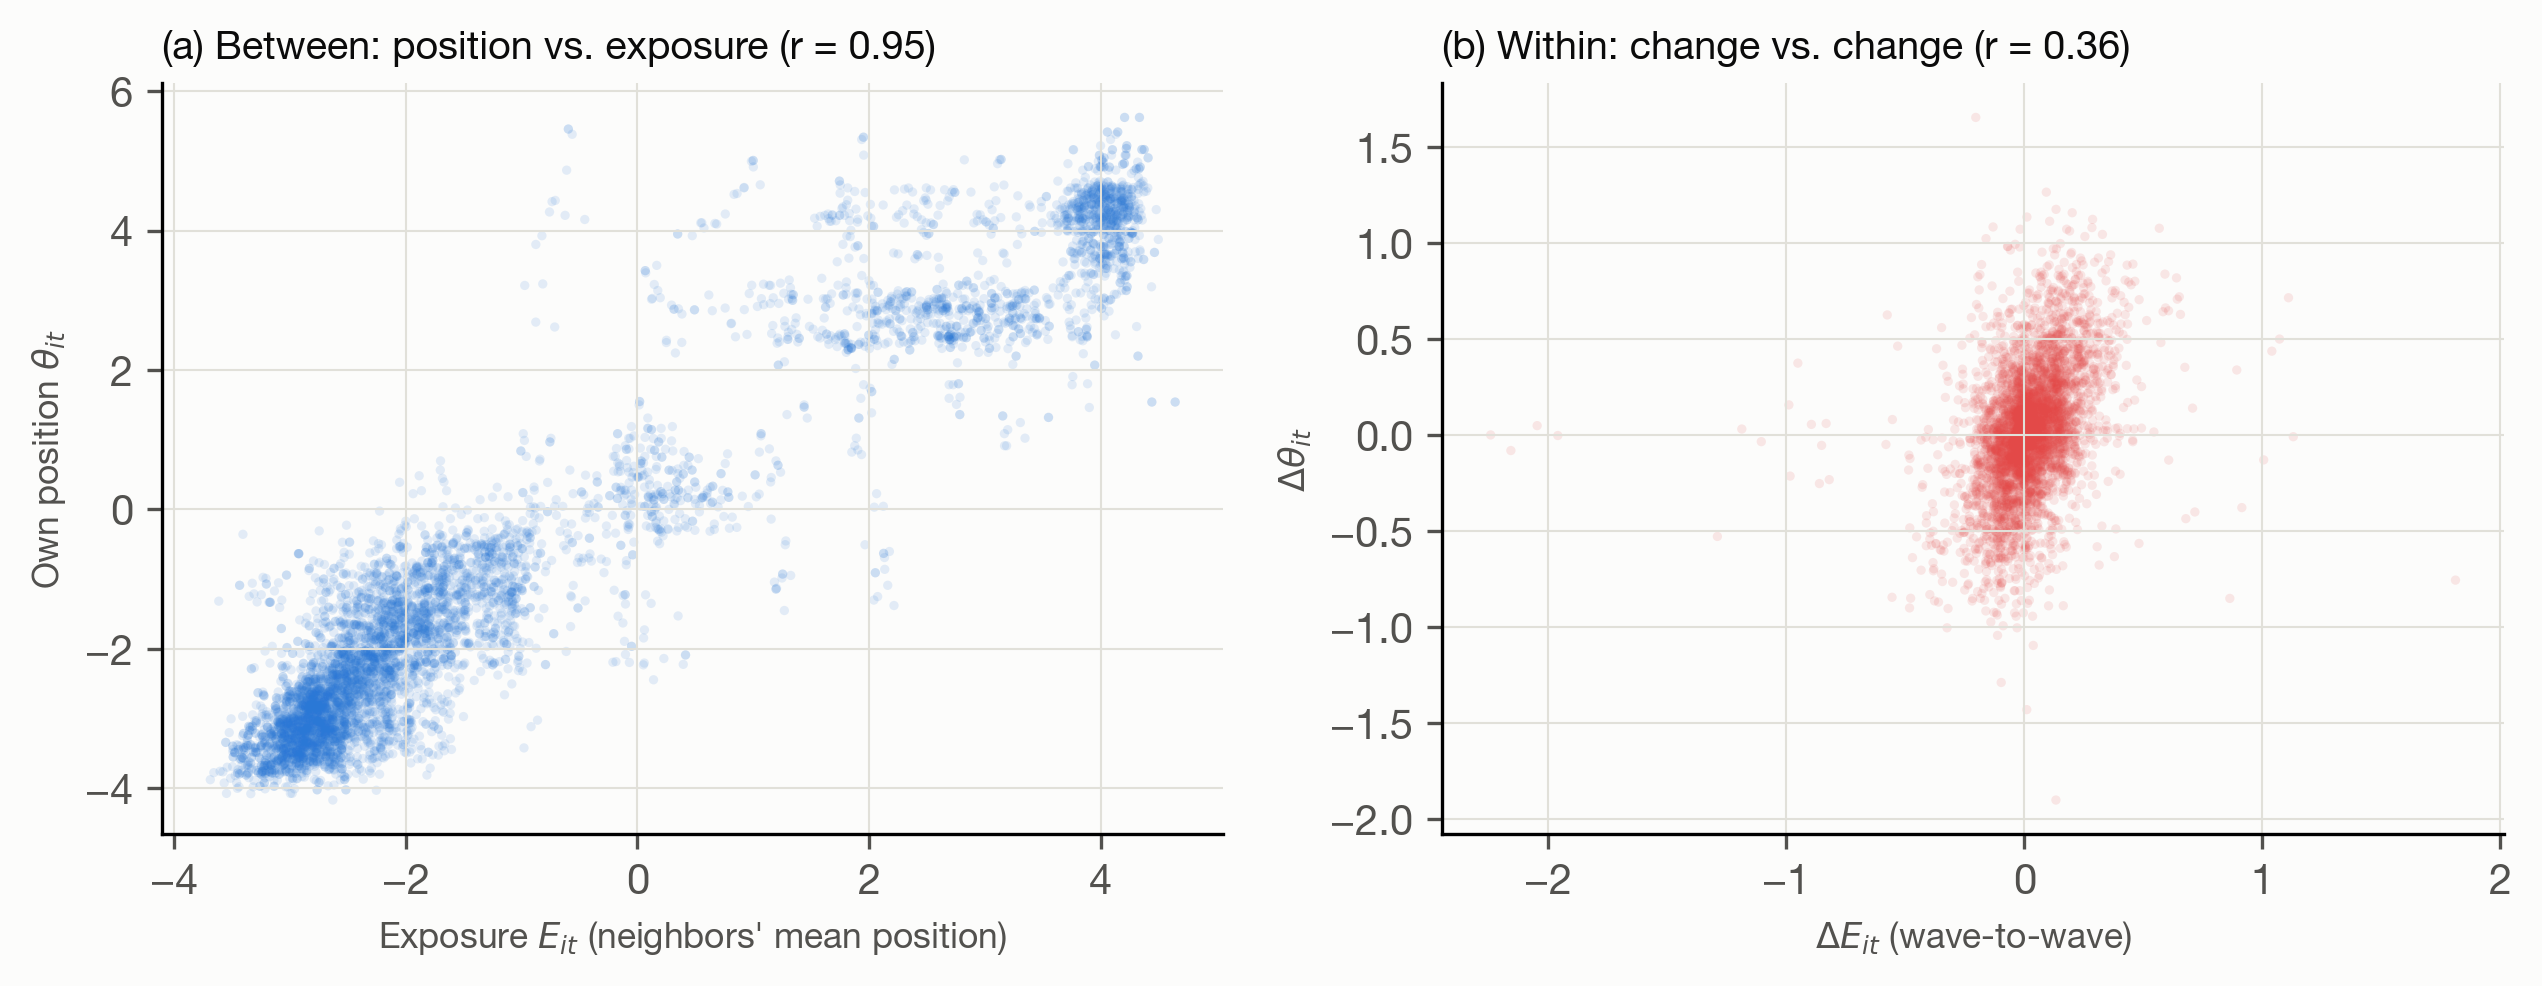
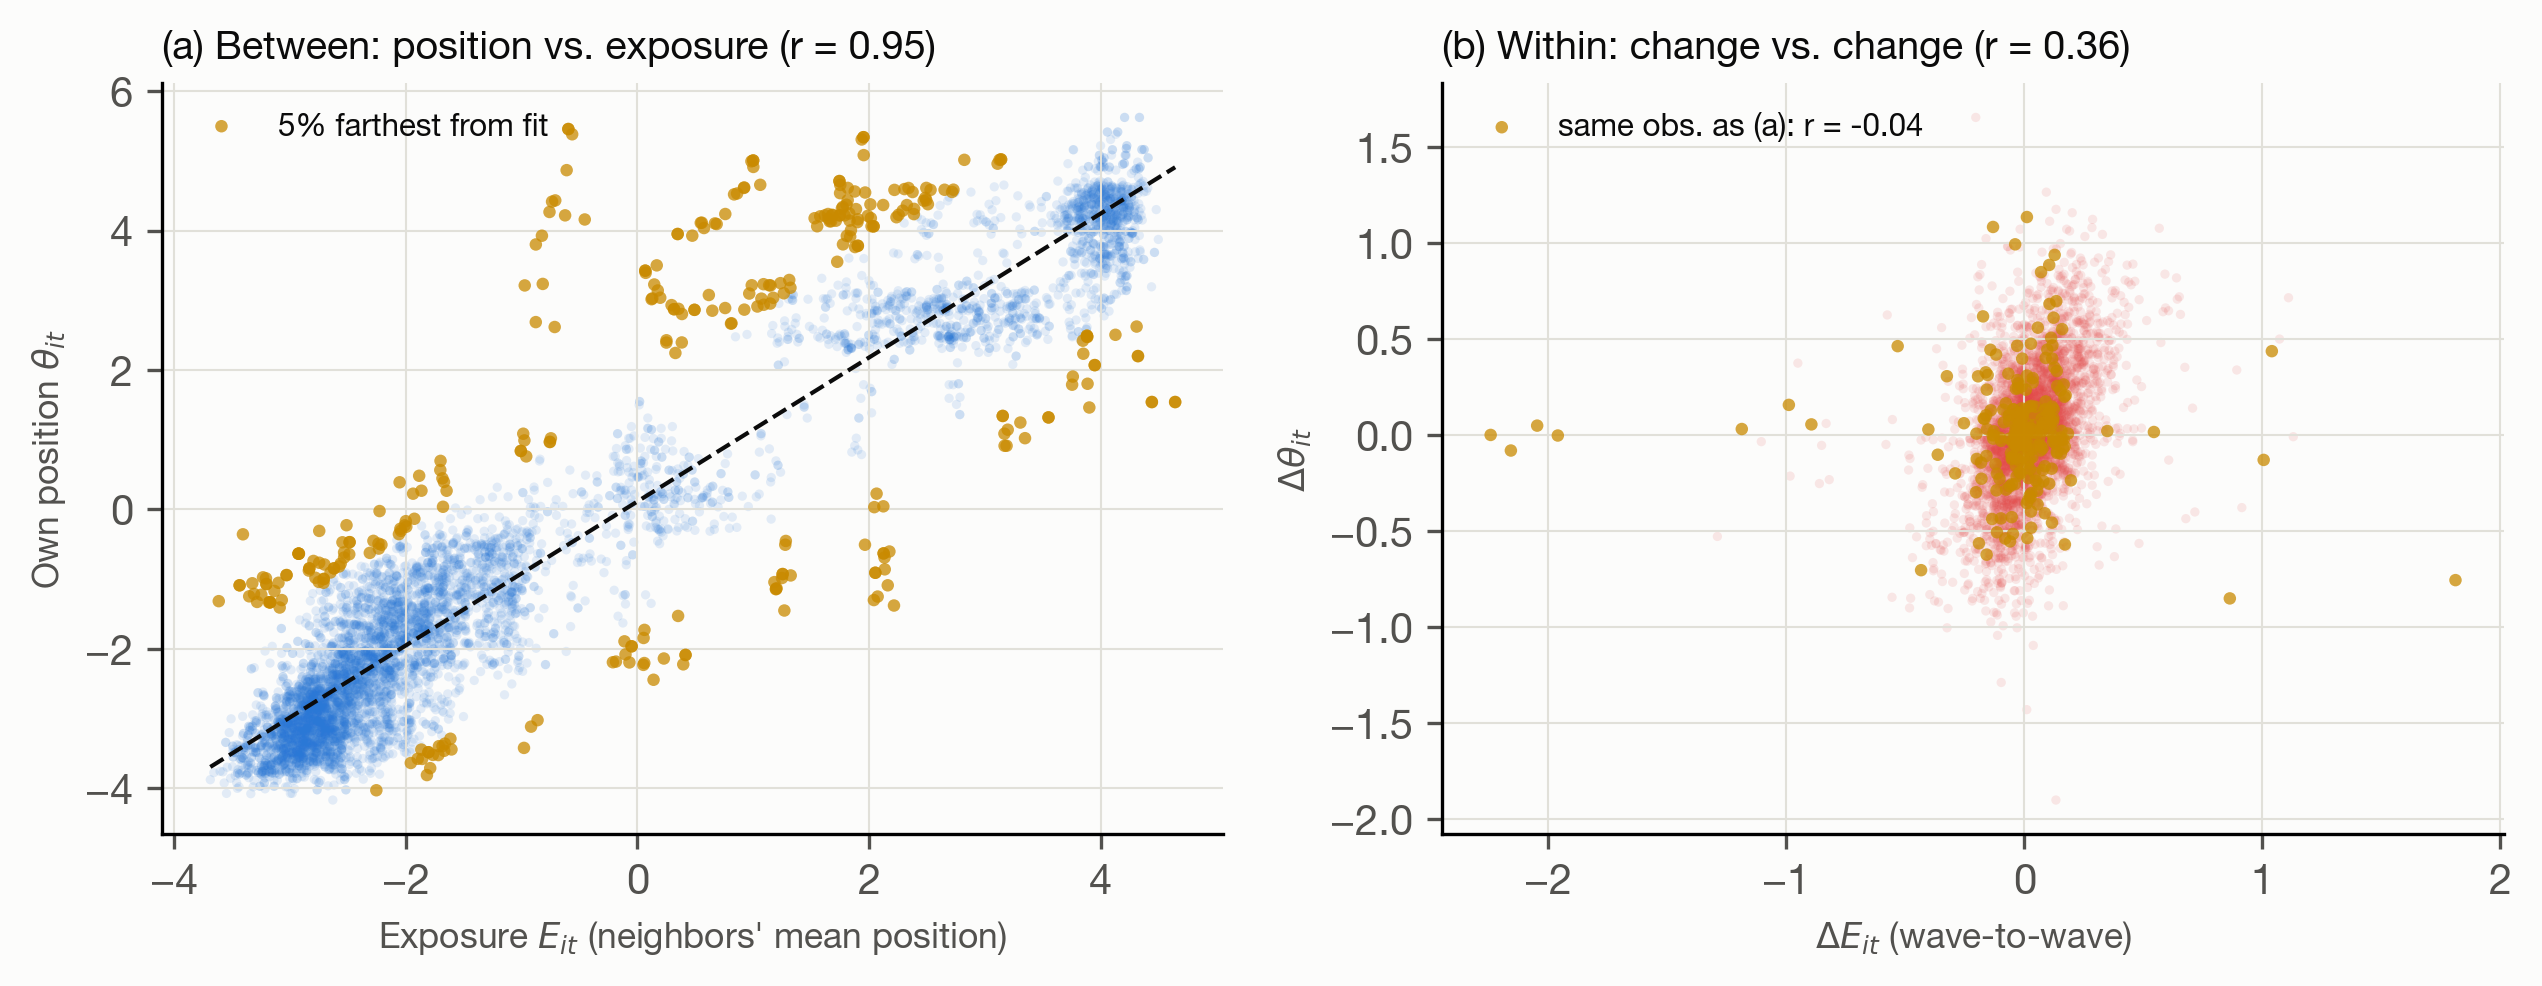
feat: ronda 8 puntos — Tabla 8 a paridad clogit (distrito/grado/edad), F11 con extremos (r=-0.04), Figura 12 supervivencia-por-posición, §4.1 corregido, revision-critica pendientes/anexo, 43 + test estructural

diff --git a/code/46-survival-by-position-figure.py b/code/46-survival-by-position-figure.py
@@ -1,0 +1,87 @@
+"""
+46-survival-by-position-figure.py  (comentario del autor 2026-07-21, punto 8.2)
+Tasa de supervivencia de los artículos según la POSICIÓN MEDIA de su coalición
+firmante: bins de igual tamaño sobre mean(theta1), con el pívot de 2/3 y los
+cortes de cuartil de la Tabla 12. Acompaña a la Tabla 12 del reporte (F12).
+
+Output: results/figures/survival_by_position.{pdf,png}
+"""
+
+import csv
+import os
+import sys
+
+import matplotlib
+matplotlib.use("Agg")
+import matplotlib.pyplot as plt
+import numpy as np
+
+sys.path.insert(0, os.path.dirname(os.path.abspath(__file__)))
+from paths import DATA_PROCESSED, RESULTS_FIGURES  # noqa: E402
+
+INK, INK2, MUTED = "#0b0b0b", "#52514e", "#898781"
+GRID, BASE, SURF = "#e1e0d9", "#c3c2b7", "#fcfcfb"
+BLUE, RED, AMBER = "#2a78d6", "#e34948", "#c98a00"
+plt.rcParams.update({"font.family": "sans-serif",
+                     "font.sans-serif": ["Helvetica Neue", "Helvetica", "Arial", "DejaVu Sans"],
+                     "figure.facecolor": SURF, "axes.facecolor": SURF, "savefig.facecolor": SURF,
+                     "text.color": INK, "axes.labelcolor": INK2,
+                     "xtick.color": INK2, "ytick.color": INK2})
+
+theta = {r["nombre_armonizado"]: float(r["theta1_fm"])
+         for r in csv.DictReader(open(os.path.join(DATA_PROCESSED, "ideal_points_2d_firstmonth.csv"),
+                                      encoding="utf-8"))}
+PIVOT = sorted(theta.values())[102]          # theta_(103)
+
+arts = []
+for r in csv.DictReader(open(os.path.join(DATA_PROCESSED, "m4_articles.csv"), encoding="utf-8")):
+    S = r["coalicion"].split("|")
+    vals = [theta[a] for a in S if a in theta]
+    arts.append((float(np.mean(vals)), int(r["survive"])))
+arts.sort()
+mt = np.array([a[0] for a in arts])
+sv = np.array([a[1] for a in arts])
+n = len(arts)
+
+# bins de igual tamaño (16) sobre la posición media
+NB = 16
+edges = np.quantile(mt, np.linspace(0, 1, NB + 1))
+centers, rates, sizes = [], [], []
+for b in range(NB):
+    m = (mt >= edges[b]) & (mt <= edges[b + 1] if b == NB - 1 else mt < edges[b + 1])
+    centers.append(mt[m].mean())
+    rates.append(sv[m].mean())
+    sizes.append(m.sum())
+
+q = np.quantile(mt, [0, .25, .5, .75, 1])
+fig, ax = plt.subplots(figsize=(8.4, 3.6))
+# bandas de cuartil con su tasa
+for i, lab in enumerate(["Q1", "Q2", "Q3", "Q4"]):
+    m = (mt >= q[i]) & (mt <= q[i + 1])
+    ax.axvspan(q[i], q[i + 1], color=GRID, alpha=0.35 if i % 2 == 0 else 0.12, zorder=0)
+    ax.text((max(q[i], -0.9) + min(q[i + 1], 0.85)) / 2, 0.485,
+            f"{lab}\n{100 * sv[m].mean():.0f}%", ha="center", va="top",
+            fontsize=8.5, color=INK2)
+ax.plot(centers, rates, "-", color=BLUE, lw=1.6, zorder=2)
+ax.scatter(centers, rates, s=np.array(sizes) * 0.55, color=BLUE, edgecolors=SURF,
+           linewidths=0.6, zorder=3)
+ax.axvline(PIVOT, color=RED, lw=1.4, ls="--", zorder=4)
+ax.text(PIVOT + 0.02, 0.44, f"2/3 pivot ($\\theta_{{(103)}}$ = {PIVOT:.2f})",
+        fontsize=8.5, color=RED, va="top")
+ax.axhline(sv.mean(), color=MUTED, lw=1.0, ls=":", zorder=1)
+ax.text(mt.min(), sv.mean() + 0.008, f"overall rate = {sv.mean():.2f}",
+        fontsize=7.5, color=MUTED, va="bottom")
+ax.set_xlabel("Mean ideal point of the signing coalition ($\\bar\\theta_1$)", fontsize=9.5)
+ax.set_ylabel("Article survival rate", fontsize=9.5)
+ax.set_ylim(0, 0.5)
+ax.grid(axis="y", color=GRID, lw=0.6)
+for side in ("top", "right"):
+    ax.spines[side].set_visible(False)
+ax.set_title(f"Article survival by coalition position (n = {n} articles; "
+             "dots = equal-count bins, size $\\propto$ n; bands = quartiles of Table 12)",
+             fontsize=9.8, color=INK, loc="left", pad=8)
+os.makedirs(RESULTS_FIGURES, exist_ok=True)
+for ext in ("pdf", "png"):
+    fig.savefig(os.path.join(RESULTS_FIGURES, f"survival_by_position.{ext}"), dpi=300,
+                bbox_inches="tight")
+print("figura: survival_by_position.pdf/.png")

diff --git a/code/11-m2-motivation-figures.py b/code/11-m2-motivation-figures.py
@@ -238,19 +238,41 @@ print("--- Done ---")
 pan = pd.read_csv(os.path.join(DATA_PROCESSED, "network_exposure_panel.csv"))
 pan = pan.sort_values(["legislator", "commission", "step"])
 pan["dE"] = pan.groupby(["legislator", "commission"])["net_exposure"].diff()
-lev = pan.dropna(subset=["theta", "net_exposure"])
-chg = pan.dropna(subset=["delta_theta", "dE"])
+lev = pan.dropna(subset=["theta", "net_exposure"]).copy()
+chg = pan.dropna(subset=["delta_theta", "dE"]).copy()
 r_lev = lev["theta"].corr(lev["net_exposure"])
 r_chg = chg["delta_theta"].corr(chg["dE"])
+# extremos del panel (a): 5% con mayor residuo |theta - fit(E)| (punto 1,
+# 2026-07-21) -> se marcan ambos paneles; si en (b) se ven aleatorios,
+# ni siquiera los desalineados muestran arrastre
+b1, b0 = np.polyfit(lev["net_exposure"], lev["theta"], 1)
+lev["resid"] = lev["theta"] - (b0 + b1 * lev["net_exposure"])
+thr = lev["resid"].abs().quantile(0.95)
+lev["extreme"] = lev["resid"].abs() >= thr
+key = ["legislator", "commission", "step"]
+chg = chg.merge(lev[key + ["extreme"]], on=key, how="left")
+chg["extreme"] = chg["extreme"].fillna(False)
+r_chg_ext = chg.loc[chg["extreme"], "delta_theta"].corr(chg.loc[chg["extreme"], "dE"])
 fig, (a1, a2) = plt.subplots(1, 2, figsize=(8.6, 3.4))
-a1.scatter(lev["net_exposure"], lev["theta"], s=5, alpha=0.12, color="#2a78d6",
-           edgecolors="none", rasterized=True)
+a1.scatter(lev.loc[~lev["extreme"], "net_exposure"], lev.loc[~lev["extreme"], "theta"],
+           s=5, alpha=0.12, color="#2a78d6", edgecolors="none", rasterized=True)
+a1.scatter(lev.loc[lev["extreme"], "net_exposure"], lev.loc[lev["extreme"], "theta"],
+           s=9, alpha=0.75, color="#c98a00", edgecolors="none", zorder=3,
+           label="5% farthest from fit")
+a1.plot([lev["net_exposure"].min(), lev["net_exposure"].max()],
+        [b0 + b1 * lev["net_exposure"].min(), b0 + b1 * lev["net_exposure"].max()],
+        color="#0b0b0b", lw=1.0, ls="--", zorder=2)
+a1.legend(fontsize=7.5, frameon=False, loc="upper left")
 a1.set_title(f"(a) Between: position vs. exposure (r = {r_lev:.2f})",
              fontsize=9.5, loc="left", color=INK)
 a1.set_xlabel("Exposure $E_{it}$ (neighbors' mean position)", fontsize=8.5)
 a1.set_ylabel(r"Own position $\theta_{it}$", fontsize=8.5)
-a2.scatter(chg["dE"], chg["delta_theta"], s=5, alpha=0.12, color="#e34948",
-           edgecolors="none", rasterized=True)
+a2.scatter(chg.loc[~chg["extreme"], "dE"], chg.loc[~chg["extreme"], "delta_theta"],
+           s=5, alpha=0.12, color="#e34948", edgecolors="none", rasterized=True)
+a2.scatter(chg.loc[chg["extreme"], "dE"], chg.loc[chg["extreme"], "delta_theta"],
+           s=9, alpha=0.75, color="#c98a00", edgecolors="none", zorder=3,
+           label=f"same obs. as (a): r = {r_chg_ext:.2f}")
+a2.legend(fontsize=7.5, frameon=False, loc="upper left")
 a2.set_title(f"(b) Within: change vs. change (r = {r_chg:.2f})",
              fontsize=9.5, loc="left", color=INK)
 a2.set_xlabel(r"$\Delta E_{it}$ (wave-to-wave)", fontsize=8.5)

diff --git a/docs/networked-influence-study.md b/docs/networked-influence-study.md
@@ -311,7 +311,7 @@ $sub.rep^{(2)}$ --- familiaridad de pares & $+2.11$ & $1\times10^{-20}$ & $+2.07
 
 Qué agrega el RHEM sobre el logit condicional — la comparación en detalle. Los dos modelos usan los mismos eventos y la misma forma estadística; difieren en una sola cosa: el RHEM deja que el pasado entre a la ecuación. Eso tiene tres consecuencias. (i) El logit condicional es el RHEM del primer día: cuando nadie ha firmado con nadie, las estadísticas de historia valen cero para todos y el RHEM se reduce exactamente al logit de 3.1 — por eso no son rivales sino el mismo modelo en dos momentos, y por eso los coeficientes de composición del logit deben leerse como "la fuerza de los atributos cuando no hay historia que consultar" (los primeros momentos). (ii) La dinámica que el RHEM revela es acumulativa: cada co-firma de hoy se vuelve familiaridad mañana, y esa familiaridad es el predictor más fuerte de la próxima coalición — un mecanismo de rieles: los primeros encuentros (guiados por distrito, lista e ideología, como muestra el logit) crean los pares por los que después circula todo lo demás. (iii) La pregunta contrafactual cambia: el logit pregunta "¿a quién se parece el que firma?"; el RHEM pregunta "dado todo lo que ya pasó, ¿quién más podría haber firmado hoy?". Que la ideología ($-2.67$) sobreviva con toda su fuerza en la segunda pregunta es el hallazgo: la homofilia no era un espejismo de la historia acumulada. Y que lista y distrito también sobrevivan dice que la organización territorial y de etiqueta opera en cada coalición nueva, no solo en la primera.
 
-Una cautela final: la "familiaridad" medida solo ve lo firmado desde noviembre de 2021. Amistades previas, militancias compartidas u otras afinidades estables que no observamos quedan dentro de $sub.rep^{(2)}$; por eso la llamamos persistencia relacional y no amistad.
+Una cautela final: la "familiaridad" medida solo ve lo firmado desde noviembre de 2021. Amistades previas, militancias compartidas u otras afinidades estables que no observamos quedan dentro de $sub.rep^{(2)}$; por eso la llamamos persistencia relacional y no amistad. Una nota final: el corte por bloques de la Tabla 3 no se traslada directamente al RHEM — aquí la unidad no es un elector sino la coalición-evento, así que no existe "muestra del bloque"; las variantes que sí lo permitirían (interacciones con el bloque mayoritario de la coalición, o modelos separados según el bloque del autor principal) quedan anotadas como extensión.
 
 ## 3.4 Lo que no organiza la red: la profesión
 
@@ -333,19 +333,22 @@ Sobre esa red estimamos un ERGM (exponential random graph model), que conviene e
 
 ¿Por qué siete modelos y no uno? Por dos razones, una sustantiva y una práctica. La sustantiva: la comisión es el mayor confundidor de composición (la sección 3.4 mostró que los temas arman las coaliciones), y estimar dentro de cada comisión es condicionar por ese confundidor por diseño — en un modelo único de las 947 iniciativas, con un solo intercepto, las diferencias de composición *entre* comisiones contaminan la homofilia *dentro* de cada una (lo verificamos: el modelo agregado invierte los signos de la homofilia, la paradoja de Simpson de manual). La práctica: en estas redes la estimación MCMC completa toma horas por comisión; la tabla reporta máxima pseudo-verosimilitud (MPLE), que entrega los mismos puntos en segundos pero errores estándar que subestiman la incertidumbre — las estrellas se leen como indicativas, y el run MCMC completo (en curso, nocturno) entrega la inferencia definitiva. Los siete modelos ($^{*}$ $p<.05$, $^{**}$ $p<.01$, $^{***}$ $p<.001$; errores estándar completos en `M1_bipartite_commissions.csv`):
 
-**Tabla 8 — ERGM bipartito por comisión (siete modelos, estimación MPLE).**
+**Tabla 8 — ERGM bipartito por comisión (siete modelos, especificación extendida a paridad con el logit condicional; estimación MPLE).**
 
 | Término | C1 | C2 | C3 | C4 | C5 | C6 | C7 |
 |:---|:-:|:-:|:-:|:-:|:-:|:-:|:-:|
-| Edges (base) | $-3.36^{***}$ | $-4.06^{***}$ | $-3.68^{***}$ | $-3.82^{***}$ | $-3.82^{***}$ | $-3.56^{***}$ | $-3.81^{***}$ |
-| Miembro de la comisión | $+0.74^{***}$ | $+1.20^{***}$ | $+1.76^{***}$ | $+0.57^{***}$ | $+1.59^{***}$ | $+1.30^{***}$ | $+2.32^{***}$ |
-| Misma lista | $+0.20^{***}$ | $+0.16^{***}$ | $+0.20^{***}$ | $+0.17^{***}$ | $+0.18^{***}$ | $+0.21^{***}$ | $+0.22^{***}$ |
-| Mismo quintil $\theta_1$ | $+0.15^{***}$ | $+0.16^{***}$ | $+0.12^{***}$ | $+0.14^{***}$ | $+0.16^{***}$ | $+0.12^{***}$ | $+0.16^{***}$ |
-| Ambos abogados | $-0.10^{***}$ | $-0.04^{**}$ | $-0.08^{***}$ | $-0.03^{***}$ | $-0.02^{*}$ | $-0.04^{*}$ | $-0.01$ |
-| Ambos con experiencia | $+0.04^{**}$ | $+0.06^{***}$ | $+0.05^{***}$ | $+0.05^{***}$ | $+0.05^{***}$ | $+0.05^{***}$ | $+0.02$ |
-| Mismo género | $-0.04^{*}$ | $-0.01$ | $-0.06^{*}$ | $-0.02^{*}$ | $-0.06^{***}$ | $-0.09^{***}$ | $-0.04^{*}$ |
+| Edges (base) | $-3.14^{***}$ | $-3.90^{***}$ | $-3.70^{***}$ | $-3.60^{***}$ | $-3.78^{***}$ | $-3.38^{***}$ | $-3.79^{***}$ |
+| Miembro de la comisión | $+0.73^{***}$ | $+1.24^{***}$ | $+1.77^{***}$ | $+0.57^{***}$ | $+1.56^{***}$ | $+1.31^{***}$ | $+2.29^{***}$ |
+| Misma lista | $+0.21^{***}$ | $+0.18^{***}$ | $+0.20^{***}$ | $+0.18^{***}$ | $+0.18^{***}$ | $+0.21^{***}$ | $+0.22^{***}$ |
+| Mismo quintil $\theta_1$ | $+0.16^{***}$ | $+0.16^{***}$ | $+0.12^{***}$ | $+0.14^{***}$ | $+0.16^{***}$ | $+0.13^{***}$ | $+0.16^{***}$ |
+| Mismo distrito/pueblo | $+0.23^{***}$ | $+0.19^{***}$ | $+0.36^{***}$ | $-0.01$ | $+0.07$ | $-0.02$ | $+0.30^{***}$ |
+| Ambos abogados | $-0.08^{***}$ | $-0.02^{+}$ | $-0.08^{***}$ | $-0.01^{+}$ | $-0.03^{**}$ | $-0.02$ | $-0.01$ |
+| Ambos con experiencia | $+0.04^{**}$ | $+0.06^{***}$ | $+0.05^{**}$ | $+0.06^{***}$ | $+0.06^{***}$ | $+0.05^{***}$ | $+0.02$ |
+| Mismo género | $-0.03^{+}$ | $-0.00$ | $-0.05^{*}$ | $-0.01$ | $-0.06^{***}$ | $-0.08^{***}$ | $-0.04^{+}$ |
+| Mismo nivel educativo | $-0.10^{***}$ | $-0.08^{***}$ | $-0.03^{+}$ | $-0.09^{***}$ | $+0.02^{*}$ | $-0.05^{***}$ | $+0.00$ |
+| Mismo quintil de edad | $-0.06^{*}$ | $-0.04^{+}$ | $-0.01$ | $-0.05^{***}$ | $-0.08^{***}$ | $-0.05^{*}$ | $-0.09^{**}$ |
 
-Cómo leer el conjunto. Primero, la pertenencia: en las siete comisiones, ser miembro multiplica la propensión a firmar los textos de esa comisión ($+0.57$ a $+2.32$). Segundo — el resultado central de la sección — la homofilia de lista ($+0.16$ a $+0.22$) y la ideológica ($+0.12$ a $+0.16$) son positivas y notablemente estables en las siete comisiones: la tercera lente del estudio, sin proyección y dentro de cada pool temático, confirma lo que el logit condicional (3.1) y el RHEM (3.3) ya habían mostrado con diseños completamente distintos. Tercero, el perfil repite su patrón: los abogados no se buscan entre sí (coeficiente levemente *negativo* en seis comisiones — los junta el tema, no la elección, como mostró 3.4), la experiencia compartida suma poco pero parejo, y el género es consistentemente negativo: las coaliciones firmantes mezclan géneros más de lo que el azar produciría, en todas las comisiones.
+Cómo leer el conjunto. Primero, la pertenencia: en las siete comisiones, ser miembro multiplica la propensión a firmar los textos de esa comisión ($+0.57$ a $+2.32$). Segundo — el resultado central de la sección — la homofilia de lista ($+0.16$ a $+0.22$) y la ideológica ($+0.12$ a $+0.16$) son positivas y notablemente estables en las siete comisiones: la tercera lente del estudio, sin proyección y dentro de cada pool temático, confirma lo que el logit condicional (3.1) y el RHEM (3.3) ya habían mostrado con diseños completamente distintos. Tercero, el territorio reaparece con una heterogeneidad nueva: la homofilia de distrito es fuerte en cuatro comisiones ($+0.19$ a $+0.36$ en C1, C2, C3 y C7) y nula en las otras tres (C4, C5, C6) — los pools temáticos más masivos y transversales diluyen al coterráneo. Cuarto, el perfil repite y amplía su patrón: los abogados no se buscan entre sí (coeficiente levemente *negativo* en seis comisiones — los junta el tema, no la elección, como mostró 3.4), la experiencia compartida suma poco pero parejo, y las tres variables de mezcla van todas en la misma dirección — género, nivel educativo y edad tienen homofilia *negativa* casi en todas partes: las coaliciones firmantes mezclan géneros, credenciales y generaciones más de lo que el azar produciría.
 
 La relación con 3.1 es de triangulación, no de redundancia: el logit condicional pregunta por la *elección* frente a un menú concreto, fecha por fecha; el ERGM bipartito pregunta por la *estructura agregada* de cada pool de documentos, sin proyectar ni condicionar en tamaños. Que lista e ideología organicen la firma en las dos vistas — y en la dinámica del RHEM — permite afirmar la homofilia como propiedad del proceso y no como artefacto de un modelo.
 
@@ -397,11 +400,11 @@ Sobre las ventanas: la ventana ideal para la hipótesis "la influencia operó te
 
 La falsificación merece su propia explicación. Si el coeficiente de la exposición *pasada* reflejara influencia causal, la exposición *futura* no debería "predecir" el cambio de hoy. Pero lo hace — en la ventana completa incluso algo más que la pasada ($+0.010$ contra $+0.007$), y en la tardía exactamente igual. Esa simetría es la firma de la selección: la exposición no causa el cambio — acompaña al cambio, antes y después, porque elijo co-firmantes hacia cuya posición ya me estoy moviendo. Una precaución que verificamos en serio: como la exposición es acumulada, la pasada y la futura son casi la misma variable (correlación 0.995 en niveles; 0.93 dentro de cada persona), así que compararlas por separado no basta. El test limpio separa la *novedad*: descomponemos la exposición futura en la parte que ya estaba en la pasada y la parte nueva (las co-firmas que voy a agregar y los movimientos de mis socios futuros), y ponemos ambas en la misma regresión. El resultado es nítido: la parte nueva del futuro predice mi cambio de hoy ($+0.062$, $p = 0.007$) y la exposición pasada, condicional en ella, queda en cero ($p = 0.71$). Me muevo hoy hacia donde estará mi vecindario de mañana — no hacia donde estuvo el de ayer. Es la definición operativa de selección. Un chequeo adicional en la misma línea: como casi todas las ondas caen después del cambio de reglas del 15-feb-2022, re-estimamos el panel usando un $\theta$ recalculado solo con las votaciones de la era de dos tercios (mismo régimen de agenda para toda la serie). Los coeficientes suben — $+0.021$ la exposición pasada, $+0.020$ la futura, ambos $p < 10^{-3}$ — pero la simetría se mantiene intacta: más señal compartida, ninguna asimetría causal.
 
-¿Y si el nulo fuera falta de poder? La versión para la abuela: imagina que quieres saber si tu grupo de amigas te cambia los gustos musicales. Hay dos formas de que el experimento fracase sin que signifique nada: que tus amigas ya tengan exactamente tus gustos (no habría nada que copiar — sin espacio), o que tu termómetro de gustos sea tan malo que no note cambios chicos (sin instrumento). Verificamos ambas. Espacio: la distancia promedio entre la posición de cada convencional y la de su vecindario es 0.59; si los vecindarios se armaran al azar sería 2.25 — la selección cerró el 74% del espacio, pero el 0.59 restante es espacio real donde la influencia se habría notado. Instrumento: el efecto mínimo detectable con nuestros datos es $\lambda = 0.012$ (es decir, habríamos detectado una influencia que cerrara apenas 1.2% de la distancia por onda); lo estimado es $0.007$, por debajo incluso de eso. Conclusión: hubo espacio y hubo instrumento — la influencia simplemente no está, o es sustantivamente despreciable. (Precisión técnica: ese 0.012 sale del error estándar del coeficiente de la regresión — la incertidumbre muestral —, no del error de medición de $\theta$, que aún no está propagado; ver sección 7.)
+¿Y si el nulo fuera falta de poder? La versión para la abuela: imagina que quieres saber si tu grupo de amigas te cambia los gustos musicales. Hay dos formas de que el experimento fracase sin que signifique nada: que tus amigas ya tengan exactamente tus gustos (no habría nada que copiar — sin espacio), o que tu termómetro de gustos sea tan malo que no note cambios chicos (sin instrumento). Verificamos ambas. Espacio: la distancia promedio entre la posición de cada convencional y la de su vecindario es 0.59; si los vecindarios se armaran al azar sería 2.25 — la selección cerró el 74% del espacio, pero el 0.59 restante es espacio real donde la influencia se habría notado. Instrumento: el efecto mínimo detectable con nuestros datos es $\lambda = 0.012$ (es decir, habríamos detectado una influencia que cerrara apenas 1.2% de la distancia por onda); lo estimado es $0.007$, por debajo incluso de eso. Conclusión: hubo espacio y hubo instrumento — la influencia simplemente no está, o es sustantivamente despreciable. Y la última objeción posible: $\theta$ no se observa — se estima desde los votos, con error. ¿No estará el nulo fabricado por ese ruido? Lo medimos y lo propagamos. Primero el tamaño del ruido: re-simulamos 50 veces las votaciones desde el propio modelo dinIRT y re-estimamos $\theta$ en cada réplica (bootstrap paramétrico); el error de medición resultante tiene mediana 0.14 — grande: 3.6 veces el movimiento mediano de $\theta$ entre períodos consecutivos (0.04). Después la propagación: para cada una de las 50 versiones de $\theta$ reconstruimos exposición, cambios y el modelo FE completo, y miramos cuánto se mueve $\hat\lambda$ entre réplicas. Respuesta: poco — desviación 0.0014 entre réplicas contra un error muestral de 0.0036, porque el ruido de cada persona-período se promedia sobre 154 convencionales y todas las ondas. El error total honesto (regla de Rubin: muestral más medición) es 0.0039, casi igual al muestral solo, y el efecto mínimo detectable queda en $\lambda = 0.011$: aun cobrándole al modelo todo el error de medición, habríamos detectado una influencia que cerrara 1.1% de la distancia por onda, y lo estimado ($+0.007$) sigue por debajo. El nulo no es un artefacto del termómetro.
 
-La Figura 11 resume la sección completa en dos paneles: entre personas, posición y exposición van pegadas (elegimos vecindarios que se nos parecen); dentro de cada persona, los cambios de una no siguen a los cambios de la otra. Eso es selección sin influencia, en una imagen.
+La Figura 11 resume la sección completa en dos paneles. En (a), entre personas, posición y exposición van pegadas ($r = 0.95$): elegimos vecindarios que se nos parecen. En (b), dentro de cada persona, la nube de cambios es casi vertical (el $r = 0.36$ crudo que queda es el co-movimiento común de cada fecha — todos los $\theta$ se mueven algo en los mismos días — y es exactamente lo que el modelo FE absorbe). Y el detalle más exigente: los puntos ámbar de (a) son el 5% más alejado de la recta — la gente cuyo vecindario *no* se le parece, es decir, los únicos con espacio grande para ser arrastrados. Si hubiera influencia, ahí debería vérsele. En (b) esos mismos puntos caen como nube sin pendiente ($r = -0.04$): ni siquiera los más desalineados se mueven hacia su vecindario.
 
-![Figura 11. Selección vs. influencia: (a) entre personas, la posición propia y la del vecindario están fuertemente correlacionadas; (b) dentro de cada persona, los cambios onda a onda no se siguen.](../results/figures/m2_selection_vs_influence_preview.pdf){width=100%}
+![Figura 11. Selección vs. influencia: (a) entre personas, posición propia y del vecindario correlacionan 0.95; en ámbar, el 5% más alejado de la recta. (b) Los cambios onda a onda dentro de cada persona: los mismos puntos ámbar caen sin pendiente ($r = -0.04$).](../results/figures/m2_selection_vs_influence_preview.pdf){width=100%}
 
 ## 4.2 Conducta: la defección viaja por la red
 
@@ -489,9 +492,12 @@ La geometría manda: coaliciones lejanas al pívot mueren, y condicional a dónd
 | Q3: centro-izquierda ($[-0.57, -0.23]$) | 36.2% | $-0.13$ | $0.69$ |
 | Q4: centro y derecha ($[-0.23, +0.81]$) | 18.4% | $+0.25$ | $0.53$ |
 | Mitad izquierda (Q1+Q2) | 13.1% | $+0.82$ | $0.002$ |
-| Mitad centrada (Q3+Q4) | 27.3% | $+0.27$ | $0.23$ |
 
-La respuesta es sí — y eso no debilita el resultado sino que revela el mecanismo, ahora con más resolución que antes. Léase la tabla de arriba hacia abajo como un viaje desde la izquierda hacia el pívot. En el cuartil más izquierdista, ensancharse es cuestión de vida o muerte: una desviación estándar más de anchura ideológica multiplica fuertemente las odds de sobrevivir ($+1.60$), porque para una coalición anclada en $-0.8$ "ensancharse" significa literalmente estirar la mano hacia el convencional 103. En el segundo cuartil el premio sigue ahí pero ya vale la mitad ($+0.83$): están más cerca y necesitan estirarse menos. Y en las coaliciones que ya viven alrededor del pívot (Q3) o a su derecha (Q4), la anchura no compra nada — ya están donde hay que estar. El premio decae *monótonamente* con la distancia al pívot, que es exactamente lo que la lógica de los 103 votos predice. Los niveles brutos de supervivencia cuentan la misma historia por otro lado: las coaliciones puramente de izquierda salvan el 9% de sus artículos, las del tramo que contiene al pívot el 36% — el máximo de la tabla — y las que se pasan hacia la derecha vuelven a bajar (18%): estar *sobre* el pívot es mejor que estar a cualquiera de sus dos lados. (La versión más fina de este chequeo — clasificar los artículos según *quiénes los votaron* en el Pleno — requiere un vínculo votación-artículo que los datos aún no tienen; queda anotada como extensión.)
+La respuesta es sí — y eso no debilita el resultado sino que revela el mecanismo, ahora con más resolución que antes. Léase la tabla de arriba hacia abajo como un viaje desde la izquierda hacia el pívot. En el cuartil más izquierdista, ensancharse es cuestión de vida o muerte: una desviación estándar más de anchura ideológica multiplica fuertemente las odds de sobrevivir ($+1.60$), porque para una coalición anclada en $-0.8$ "ensancharse" significa literalmente estirar la mano hacia el convencional 103. En el segundo cuartil el premio sigue ahí pero ya vale la mitad ($+0.83$): están más cerca y necesitan estirarse menos. Y en las coaliciones que ya viven alrededor del pívot (Q3) o a su derecha (Q4), la anchura no compra nada — ya están donde hay que estar. El premio decae *monótonamente* con la distancia al pívot, que es exactamente lo que la lógica de los 103 votos predice. Los niveles brutos de supervivencia cuentan la misma historia por otro lado: las coaliciones puramente de izquierda salvan el 9% de sus artículos, las del tramo que se acerca al pívot el 36% — el máximo de la tabla — y las que se pasan hacia la derecha vuelven a bajar (18%). La Figura 12 muestra dónde está exactamente el punto dulce, y no es *sobre* el pívot: es un poco a su izquierda. (La versión más fina de este chequeo — clasificar los artículos según *quiénes los votaron* en el Pleno — requiere un vínculo votación-artículo que los datos aún no tienen; queda anotada como extensión.)
+
+La Figura 12 muestra esta geometría directamente, sin cortar en tramos: la tasa de supervivencia contra la posición media de la coalición, en bins de igual tamaño. El máximo (cerca del 45%) no está sobre el pívot sino algo a su izquierda ($\bar\theta_1 \approx -0.55$): subida empinada desde la izquierda dura hasta ese punto, descenso suave al acercarse al pívot y caída al cruzarlo. La interpretación encaja con la aritmética de la sala: en una Convención mayoritariamente de izquierda, la coalición óptima es la que está en el centro de masa de esa mayoría — lo bastante central para estirarse hasta el voto 103, sin despegarse del bloque que redacta. La Tabla 12 es esta curva leída por cuartiles.
+
+![Figura 12. Tasa de supervivencia de los artículos según la posición media de su coalición firmante (bins de igual tamaño; el tamaño del punto es el n del bin; bandas = cuartiles de la Tabla 12; línea roja = pívot de 2/3).](../results/figures/survival_by_position.pdf){width=100%}
 
 ## 5.2 La vista agregada: el éxito se comparte
 
@@ -525,9 +531,9 @@ donde $W$ es la red de co-patrocinio normalizada por filas (cada fila suma 1: $W
 
 Tres lecturas. Primera, el control de actividad responde la pregunta que lo motivó: firmar muchas iniciativas no hace más exitoso a nadie (coeficiente nulo) y las demás conclusiones no cambian al incluirlo. Segunda, el patrón general del estudio se repite: los atributos propios no predicen casi nada — la única excepción es la experiencia previa propia, positiva y chica ($+0.019$) —; los del vecindario pesan más, incluida la distancia al pívot, que solo importa en su versión "de la compañía" ($-0.27$) y no en la propia ($p = 0.95$). Tercera, $\rho = 0.89$: el éxito está acoplado entre co-firmantes incluso tras todos los controles. Parte de ese acoplamiento es composición — co-firmantes comparten artículos, y por tanto las propiedades de coalición de 5.1 —, por lo que leemos 5.1 como el mecanismo y esta sección como su sombra agregada (la dependencia sobrevive además con red binaria, con otra definición de lazo, con similitud semántica en vez de léxica, y con la retención condicional: $\rho$ entre 0.63 y 0.95 en todas las variantes). Nota sobre el lag de abogado ($+0.19$): a nivel de convencional, estar rodeado de abogados acompaña al éxito, pero el modelo de mecanismo (5.1) muestra que la proporción de abogados de la coalición no salva artículos — preferimos la lectura del nivel artículo, que es el diseño limpio.
 
-La Figura 12 muestra la materia prima de este éxito en el tiempo: la similitud de los artículos de cada comisión con el borrador final, onda a onda — la convergencia gradual (y desigual entre comisiones) cuyo punto de llegada es el numerador del éxito $y_i$.
+La Figura 13 muestra la materia prima de este éxito en el tiempo: la similitud de los artículos de cada comisión con el borrador final, onda a onda — la convergencia gradual (y desigual entre comisiones) cuyo punto de llegada es el numerador del éxito $y_i$.
 
-![Figura 12. Retención textual por comisión a lo largo de las ondas de indicaciones: similitud media de los artículos con el borrador final.](../results/figures/retention_dynamics_all_commissions.pdf){width=100%}
+![Figura 13. Retención textual por comisión a lo largo de las ondas de indicaciones: similitud media de los artículos con el borrador final.](../results/figures/retention_dynamics_all_commissions.pdf){width=100%}
 
 # 6. Síntesis
 

diff --git a/docs/revision-critica.md b/docs/revision-critica.md
@@ -240,7 +240,40 @@ Lo que no debe perderse de vista: las debilidades D1--D12 son las de un *paper*;
 
 ---
 
-# Parte IV — Respuesta a la revisión (bitácora en curso)
+# Parte IV — Pendientes (el estado real, 2026-07-21)
+
+Esta parte reemplaza a la antigua bitácora como índice de trabajo: aquí está SOLO lo pendiente o en curso. Todo lo ya ejecutado se movió al Anexo (bitácora de respuestas cerradas), al final del documento.
+
+## IV-P.1 — Bipartito: errores estándar definitivos y términos estructurales **[EN CURSO]**
+
+La Tabla 8 del reporte usa MPLE (puntos correctos, EE anti-conservadores). Pendiente: (a) el run MCMLE nocturno (`code/43`, presupuesto recalibrado, guardado incremental, espec extendida a paridad con el clogit) para re-etiquetar la Tabla 8 con EE válidos; (b) el test de costo de términos estructurales (primer candidato: `gwb1degree(0.5, fixed)` sobre C3, en ejecución); (c) `ergm.multi` con intercepto por red como "un número por término" del paper.
+
+## IV-P.2 — RHEM por bloque del elector **[PENDIENTE, anotado 2026-07-21]**
+
+El corte por bloques de la Tabla 3 (clogit) no se traslada directamente al RHEM: la unidad del RHEM no es un elector sino la coalición-evento, así que no existe "muestra del bloque". Rutas viables cuando se aborde: (a) interacciones de las features con el bloque mayoritario de la coalición (un solo modelo, barato); (b) RHEMs separados según el bloque del autor principal (`autor_matched` disponible; requiere crosswalk de autores); (c) features de composición específicas por bloque. Sin decisión aún.
+
+## IV-P.3 — M4 dinámico con enmendadores + etapa 0 **[PLAN ESCRITO, NO EJECUTADO]**
+
+Plan de implementación completo (expresiones, inventario de datos, advertencias de identificación, orden de ejecución) en `docs/playground.pdf` §12. Resumen: etapa 0 = logit de llegada a informe sobre las 947 iniciativas (previa: crosswalk plataforma-TRACK auditado, objetivo >90% de match inequívoco); etapa 1 = panel artículo x onda con equipo de custodia (génesis $\cup$ enmendadores hasta $t$) para C1/C3/C4/C6. Decisión del autor 2026-07-21: no se aborda ahora.
+
+## IV-P.4 — SDM: los upgrades del workshop del autor **[PENDIENTE DE DECISIÓN]**
+
+Del análisis del workshop `3-network-from-surveys.qmd` (2026-07-20) salieron seis recomendaciones, ninguna implementada aún: (1) descomposición de impactos Directo/Indirecto/Total — con N = 154 se puede el multiplicador $(I-\rho W)^{-1}$ exacto, esquivando la inestabilidad que hizo abandonar `impacts()`; (2) tabla "beta OLS vs impacto total" con % de reducción; (3) contrafactual de magnitud $\rho\,(Wy_{p90}-Wy_{p10})$; (4) párrafo-caveat DellaPosta para $\rho \approx 0.9$ con W endógena; (5) placebo-W vía ERGM solo-homofilia (costoso); (6) robustez con W top-K con pesos. Sugerencia vigente: 1-3 como próximo upgrade (baratos), 4 un párrafo, 5-6 backlog.
+
+## IV-P.5 — Propagación del error de medición a los demás modelos **[M2 LISTO; RESTO PENDIENTE]**
+
+El bootstrap paramétrico del dynIRT (code/40) y su propagación a M2 (code/45) están ejecutados: EE total (Rubin) 0.0039, MDE honesto 0.011, el nulo sobrevive. Pendiente: propagar a los modelos de formación (clogit/RHEM usan theta del primer mes — requiere bootstrap del W-NOMINATE, distinto) y a M4/SDM (theta medio).
+
+## IV-P.6 — Backlog menor acumulado
+
+- Robustez RHEM: excluir el bloque del plazo final (36% de eventos en un día); variante dirigida (quién recluta, con `autor_matched`).
+- Vínculo votación-artículo (para clasificar artículos por su coalición de votantes — cierra el chequeo fino de M4 por cuartiles).
+- Crosswalk fino de conglomerado para los 21 convencionales de listas locales ("REVISAR").
+- Auditoría en CPT: 46 iniciativas >16 firmantes; 24 grupos de texto casi duplicado; 210 indicaciones sueltas; 142 linajes sin autores.
+- IV.Q7 (color del borrador): drag_i y serie X_t.
+- Decisión editorial: ¿promover el hallazgo M2-régimen (lag>lead con theta de era 2/3) o mantener el nulo como titular? (Con la red-plataforma la asimetría desapareció: hoy el nulo es el titular.)
+
+# Anexo — Bitácora de respuestas ejecutadas (cerradas; referencia histórica)
 
 Esta parte registra, punto por punto, cómo el proyecto responde a la revisión: qué se verificó, qué se ejecutó, qué se diseñó y qué queda en cola. Se irá completando a medida que avance la implementación. Convención: **[Hecho]** = ejecutado y con resultados; **[Diseñado]** = especificado, listo para implementar; **[En cola]**.
 